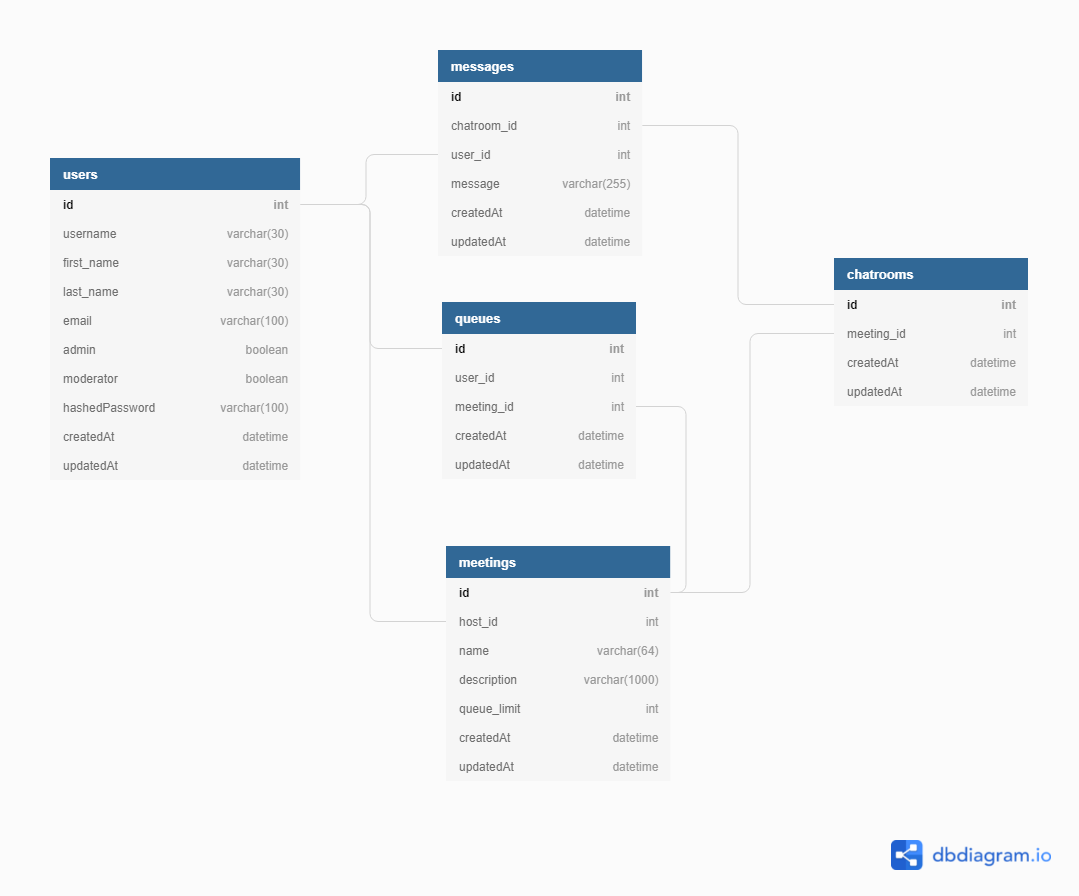
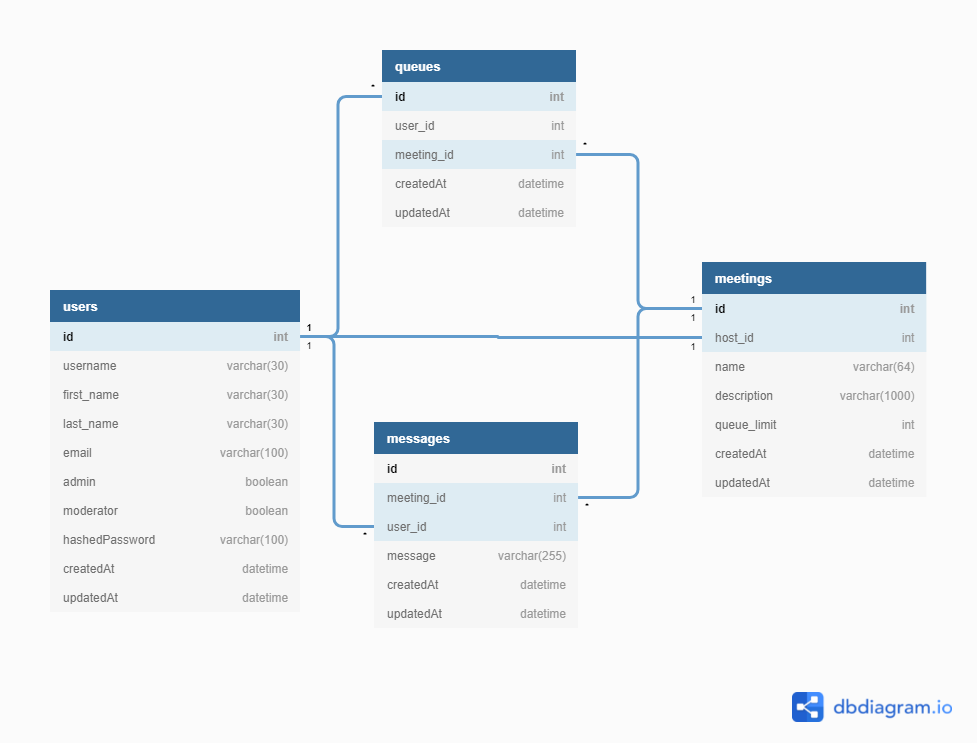
fixed meeting deletion with chat cascade

diff --git a/react-app/src/store/meeting.js b/react-app/src/store/meeting.js
@@ -97,10 +97,12 @@ export const updateMeeting = (id, host_id, name, description, queue_limit) => as
 export const endMeeting = (id) => async (dispatch) => {
   const response = await fetch(`/api/meetings/${id}/end`, {
     method: "DELETE",
-    body: JSON.stringify({id})
+    // body: JSON.stringify({id})
   })
-  const old_meeting = await response.json()
-  dispatch(remove(old_meeting))
+  if (response.ok) {
+    const old_meeting = await response.json()
+    dispatch(remove(old_meeting))
+  }
 }
 
 

diff --git a/react-app/src/components/MeetingPage/ButtonArray/MeetingEndForm.js b/react-app/src/components/MeetingPage/ButtonArray/MeetingEndForm.js
@@ -22,10 +22,8 @@ export default function MeetingEndForm() {
     e.preventDefault();
     if (user_id === host_id) {
       await dispatch(endMeeting(id))
-      history.push('/meetings')
-    } else {
-      history.push('/join')
     }
+    history.push('/join')
   }
 
   return (

diff --git a/react-app/src/components/MeetingPage/Chatroom.js b/react-app/src/components/MeetingPage/Chatroom.js
@@ -60,7 +60,6 @@ export default function Chatroom() {
     });
   }, [dispatch, id]);
 
-  console.log(">>>>>>> RERENDERING <<<<<<")
   return (
     <div className={styles.chatroom}>
       <div className={styles.chatMessages}>

diff --git a/app/seeds/meetings.py b/app/seeds/meetings.py
@@ -4,8 +4,8 @@ from app.models import db, Meeting
 # Adds a demo user, you can add other meetings here if you want
 def seed_meetings():
     simpsons = Meeting(host_id=4, name='Simpson Residence', description='Welcome to the home of the most famous family in Springfield!', queue_limit='25')
-    bartman = Meeting(host_id=6, name='Bart\'s Treehouse', description='No girls allowed. Except Milhouse.', queue_limit='4')
-    maggie = Meeting(host_id=8, name='Maggie\'s Crib', description='*Baby noises*', queue_limit='2')
+    bartman = Meeting(host_id=6, name='Bart\'s Treehouse', description='No girls allowed. No bullies allowed. Milhouse ok.', queue_limit='2')
+    maggie = Meeting(host_id=8, name='Maggie\'s Crib', description='*Baby noises* *Baby noises* *Baby noises*', queue_limit='2')
 
     db.session.add(simpsons)
     db.session.add(bartman)

diff --git a/app/models/message.py b/app/models/message.py
@@ -7,8 +7,7 @@ class Message(db.Model):
 
     id = db.Column(db.Integer, primary_key=True)
     user_id = db.Column(db.Integer, db.ForeignKey('users.id'), nullable=False)
-    meeting_id = db.Column(db.Integer, db.ForeignKey(
-        'meetings.id'), nullable=False)
+    meeting_id = db.Column(db.Integer, db.ForeignKey('meetings.id'), nullable=False)
     message = db.Column(db.String(255), nullable=False)
     created_at = db.Column(db.DateTime, nullable=False, default=db.func.now())
     updated_at = db.Column(db.DateTime, nullable=False,

diff --git a/app/models/meeting.py b/app/models/meeting.py
@@ -26,7 +26,7 @@ class Meeting(db.Model):
                         back_populates='meeting', lazy='joined', innerjoin=True)
     queue = relationship('User', secondary='queues', back_populates='meeting')
     messages = relationship(
-        'Message', back_populates='meeting', uselist=True, lazy='dynamic', innerjoin=True, cascade='all, delete-orphan')
+        'Message', back_populates='meeting', cascade="all, delete-orphan")
     # chatroom = relationship(
     #     'Chatroom', back_populates='meeting', cascade='all, delete-orphan')
 

diff --git a/migrations/versions/20210804_213347_modify_models.py b/migrations/versions/20210804_213347_modify_models.py
@@ -1,8 +1,8 @@
-"""initial migration
+"""modify models
 
-Revision ID: 6d51c337ab73
+Revision ID: d91951b3a46b
 Revises: 
-Create Date: 2021-08-02 09:40:56.383827
+Create Date: 2021-08-04 21:33:47.632282
 
 """
 from alembic import op
@@ -10,7 +10,7 @@ import sqlalchemy as sa
 
 
 # revision identifiers, used by Alembic.
-revision = '6d51c337ab73'
+revision = 'd91951b3a46b'
 down_revision = None
 branch_labels = None
 depends_on = None

diff --git a/app/api/meeting_routes.py b/app/api/meeting_routes.py
@@ -106,7 +106,7 @@ def end_meeting(id):
                                    Meeting.host_id == current_user.id).first()
     deleted_meeting = meeting.to_dict()
     if meeting:
-        Meeting.query.filter(Meeting.id == id).delete(synchronize_session=False)
+        db.session.delete(meeting)
         db.session.commit()
         return deleted_meeting
     else:

diff --git a/app/api/message_routes.py b/app/api/message_routes.py
@@ -34,7 +34,7 @@ def moderate_message(id):
 def delete_message(id):
     message = Message.query.get(id)
     if message:
-        Message.query.get(id).delete(synchronize_session=False)
+        db.session.delete(message)
         db.session.commit()
         return message.to_dict()
     else:
